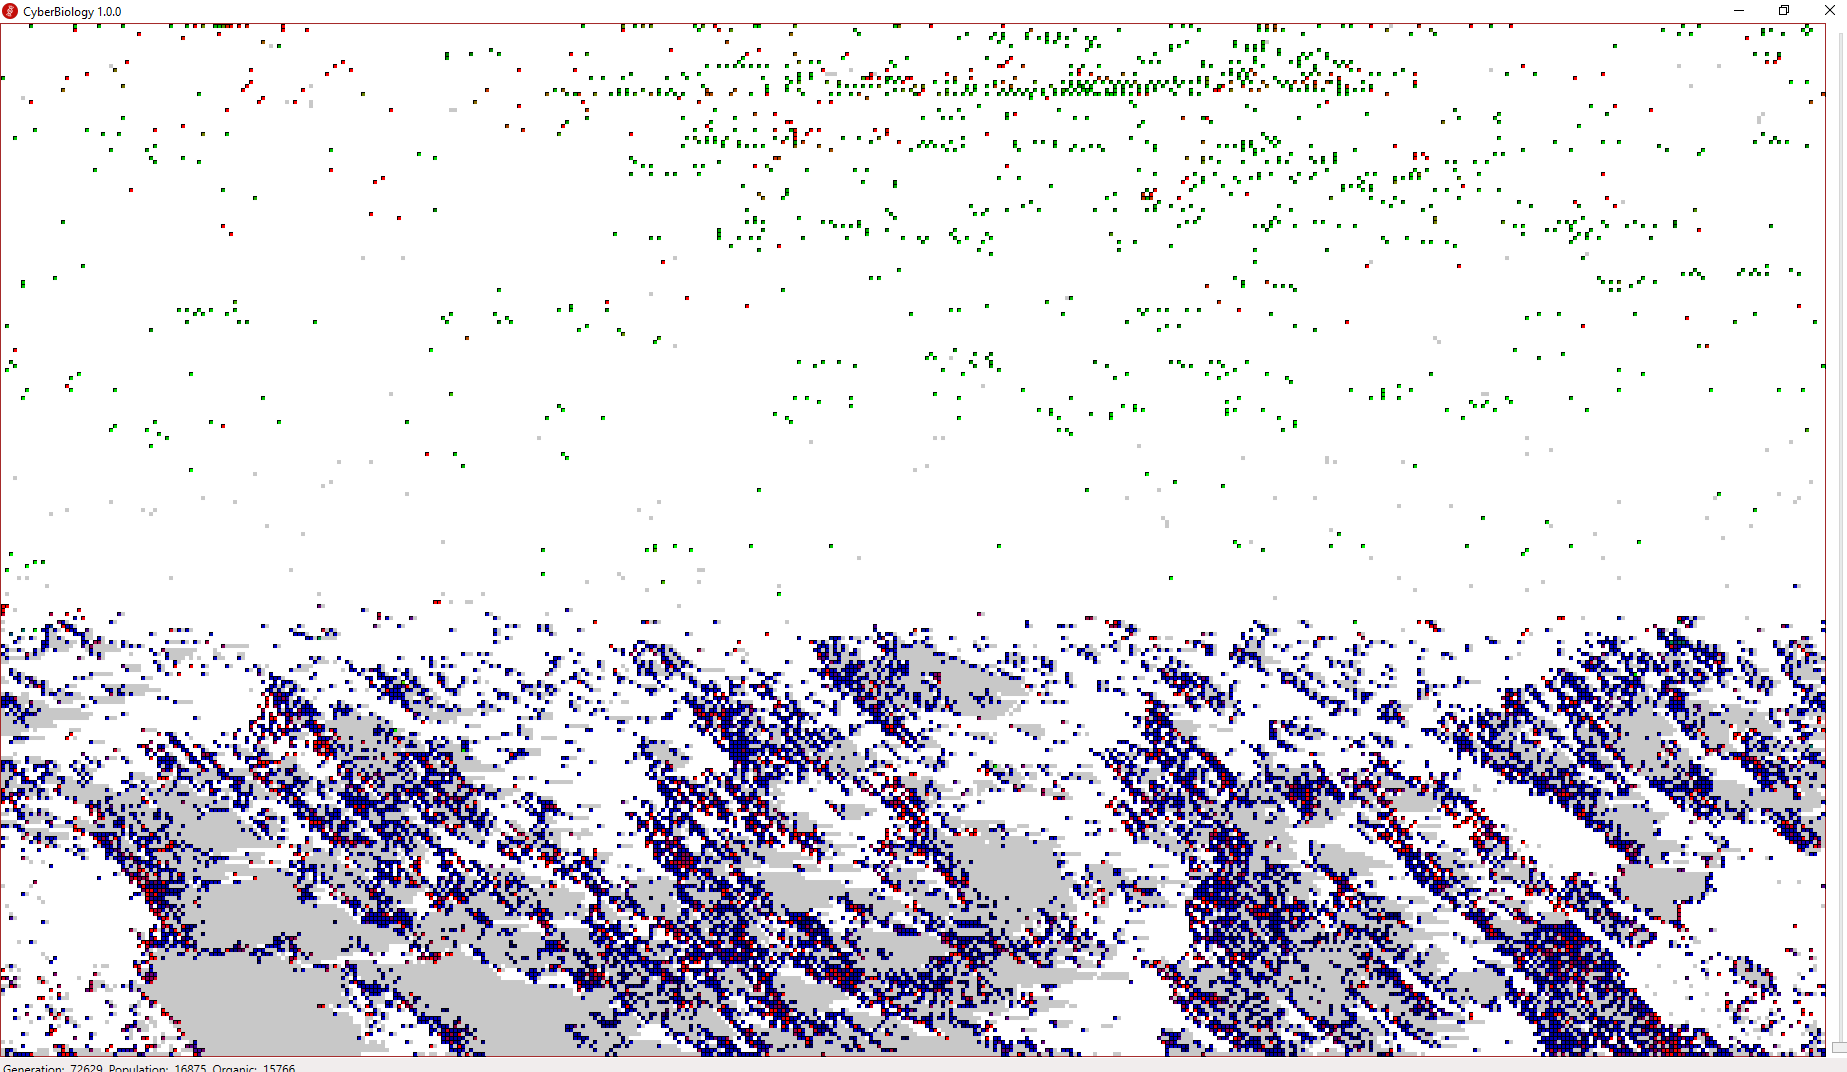
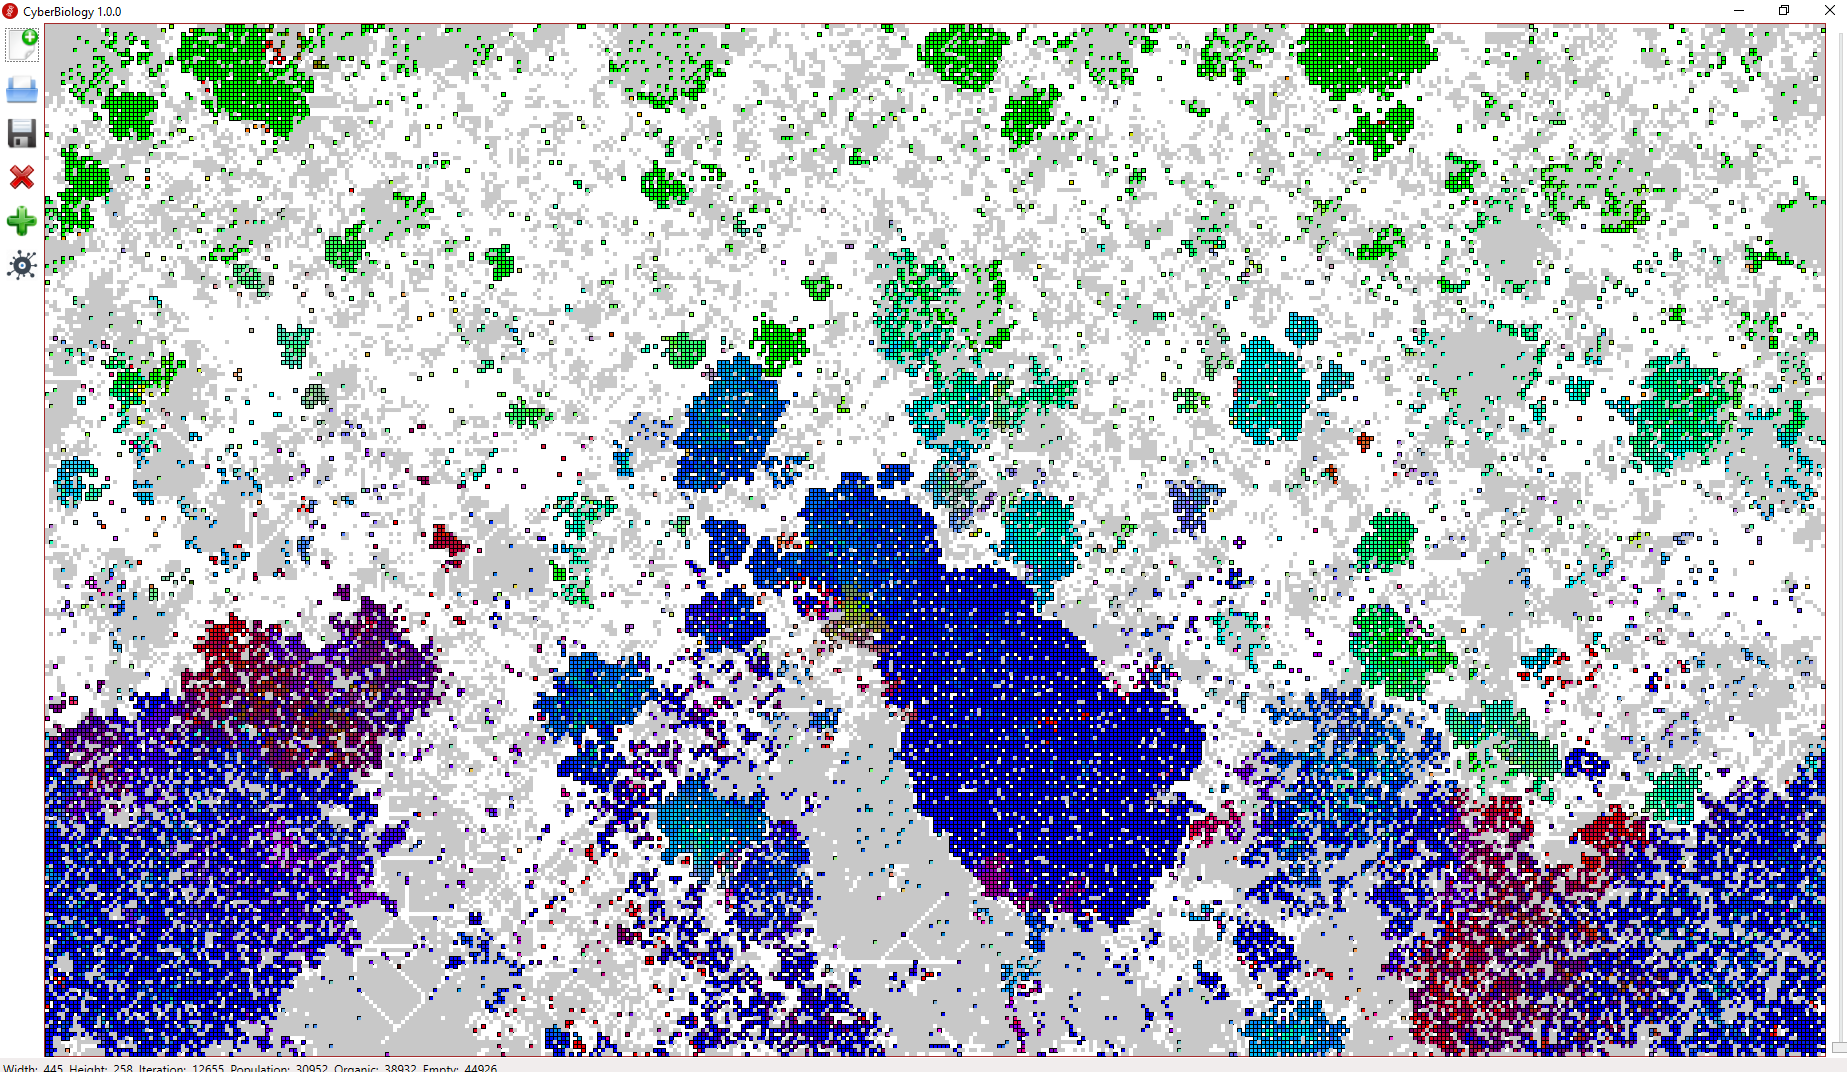
Preparing for deploy using Squirrel.Windows and AppVeyor

diff --git a/src/CyberBiology/CyberBiologyViewModel.cs b/src/CyberBiology/CyberBiologyViewModel.cs
@@ -15,10 +15,11 @@ namespace CyberBiology
     {
         private readonly WorldDrawer _worldDrawer = new WorldDrawer();
         private World _world;
+        private string baseDisplayName = "CyberBiology";
 
         public CyberBiologyViewModel()
         {
-            DisplayName = "CyberBiology 1.0.0";
+            DisplayName = baseDisplayName;
         }
 
         public bool IsBusy { get; private set; }
@@ -134,7 +135,7 @@ namespace CyberBiology
         protected override void OnViewLoaded(object view)
         {
             base.OnViewLoaded(view);
-
+            
             Width = 512;
             Height = 512;
            
@@ -198,8 +199,8 @@ namespace CyberBiology
                         _world.RandomMutations();
                         IsBusy = false;
                     }
-                    _world.NextIterationInParallel();
-                    //_world.NextIteration();
+                    //_world.NextIterationInParallel();
+                    _world.NextIteration();
 
                     var k = (_world.Population + _world.Organic) / 5000 + 1;
                     if (_world.Iteration % k == 0)
@@ -216,8 +217,21 @@ namespace CyberBiology
                     Empty = _world.Empty;
                 }
             }, TaskCreationOptions.LongRunning);
+
+            Task.Factory.StartNew(async () =>
+            {
+                var deployment = new Deployment();
+                var version = await deployment.CheckForUpdates(progress =>
+                    {
+                        DisplayName = $"{baseDisplayName}: updating {progress}%";
+                    });
+
+                DisplayName = $"{baseDisplayName}: {version}";
+            });
         }
         
+
+
         public int SizeX { get; private set; }
         public int SizeY { get; private set; }
 

diff --git a/src/CyberBiology/Deployment.cs b/src/CyberBiology/Deployment.cs
@@ -1,0 +1,47 @@
+using System;
+using System.Net;
+using System.Threading.Tasks;
+using Squirrel;
+
+namespace CyberBiology
+{
+    class Deployment
+    {
+        public async Task<string> CheckForUpdates(Action<int> progress = null)
+        {
+            //hack to fix exception: The request was aborted: Could not create SSL/TLS secure channel
+            ServicePointManager.Expect100Continue = true;
+            ServicePointManager.SecurityProtocol = SecurityProtocolType.Tls12;
+
+            UpdateManager gitHubManager;
+            try
+            {
+                gitHubManager = await UpdateManager.GitHubUpdateManager("https://github.com/ihtfw/CyberBiology");
+            }
+            catch 
+            {
+                //not deployed
+                return "Not deployed";
+            }
+
+            try
+            {
+                var releaseEntry = await gitHubManager.UpdateApp(progress);
+                if (releaseEntry != null)
+                {
+                    return gitHubManager.CurrentlyInstalledVersion() + " => " + releaseEntry.Version;
+                }
+
+                return gitHubManager.CurrentlyInstalledVersion().ToString();
+            }
+            catch
+            {
+                return gitHubManager.CurrentlyInstalledVersion() + " Error on update";
+            }
+            finally
+            {
+                gitHubManager.Dispose();
+            }
+        }
+    }
+}

diff --git a/src/CyberBiology/CyberBiologyView.xaml.cs b/src/CyberBiology/CyberBiologyView.xaml.cs
@@ -1,17 +1,6 @@
-using System;
-using System.Collections.Generic;
-using System.Linq;
-using System.Text;
-using System.Threading.Tasks;
-using System.Windows;
+using System.Windows;
 using System.Windows.Controls;
-using System.Windows.Data;
-using System.Windows.Documents;
 using System.Windows.Input;
-using System.Windows.Media;
-using System.Windows.Media.Imaging;
-using System.Windows.Navigation;
-using System.Windows.Shapes;
 
 namespace CyberBiology
 {

diff --git a/src/CyberBiology/App.xaml.cs b/src/CyberBiology/App.xaml.cs
@@ -1,10 +1,4 @@
-using System;
-using System.Collections.Generic;
-using System.Configuration;
-using System.Data;
-using System.Linq;
-using System.Threading.Tasks;
-using System.Windows;
+using System.Windows;
 
 namespace CyberBiology
 {

diff --git a/src/CyberBiology/Properties/AssemblyInfo.cs b/src/CyberBiology/Properties/AssemblyInfo.cs
@@ -1,6 +1,4 @@
 using System.Reflection;
-using System.Resources;
-using System.Runtime.CompilerServices;
 using System.Runtime.InteropServices;
 using System.Windows;
 
